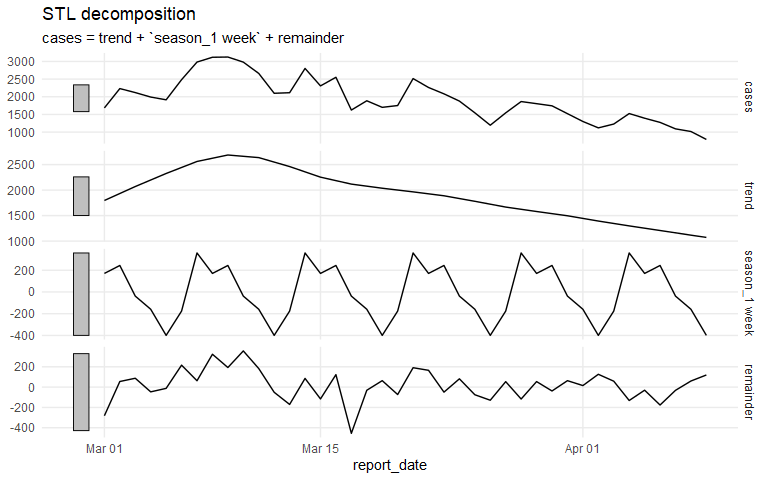
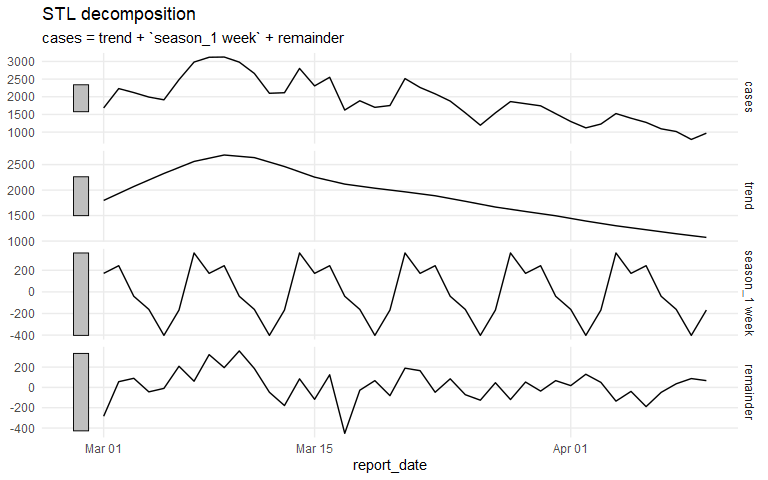
Try log-transformed version

diff --git a/covid-time-series.md b/covid-time-series.md
@@ -16,14 +16,11 @@ cases_df <- read_csv(case_data_url) %>%
   clean_names()
 ```
 
-    ## Warning: One or more parsing issues, see `problems()` for details
-
-    ## Rows: 767295 Columns: 7
+    ## Rows: 774928 Columns: 7
 
     ## -- Column specification --------------------------------------------------------
     ## Delimiter: ","
-    ## chr  (5): Case Status, Sex, Age group, DHB, Overseas travel
-    ## lgl  (1): Historical
+    ## chr  (6): Case Status, Sex, Age group, DHB, Overseas travel, Historical
     ## date (1): Report Date
 
     ## 
@@ -155,4 +152,51 @@ While the trend is possibly over-smoothed, the peak coincinded with the strong w
 
 The true case numbers are likely higher than reported, but the shape of the curve is more important for this analysis than the absolute numbers. There was also likely to have been a change in reporting rates when use of RATs became widespread, so comparing case numbers before and after that would be problematic, but this was well before the peak in these DHBs.
 
-For a more rigorous analysis, and before trying any forecasting, we should do a log + 1 transform to allow for multiplicative seasonality.
+## Log-transformed time series
+
+For a more rigorous analysis, and before trying any forecasting, we should do a log + 1 transform to allow for multiplicative seasonality. This is especially important now that cases are falling.
+
+``` r
+y_transform <- log1p
+inverse_transform <- expm1
+
+dhb_cases_transformed_ts <- dhb_cases_ts %>% 
+  mutate(y = y_transform(cases))
+
+dhb_cases_transformed_stl <- dhb_cases_transformed_ts %>% 
+  model(STL(y ~ trend(window = 7 * 2) + season(period = "1 week", window = Inf))) %>% 
+  components()
+
+dhb_cases_transformed_stl %>% 
+  autoplot() +
+  theme_minimal() +
+  theme(panel.grid.minor = element_blank())
+```
+
+![](covid-time-series_files/figure-markdown_github/log-transform-1.png)
+
+``` r
+dhb_cases_after_transform_stl_df <- dhb_cases_transformed_stl %>% 
+  select(report_date, y, trend, season_adjust) %>% 
+  as_tibble() %>% 
+  mutate(across(where(is.numeric), inverse_transform)) %>% 
+  rename(cases = y)
+
+dhb_cases_after_transform_stl_df %>% 
+  ggplot() +
+  # geom_vline(xintercept = wfh_start_date, colour = "firebrick") +
+  geom_hline(yintercept = 0, colour = "grey50") +
+  geom_line(aes(x = report_date, y = season_adjust), colour = "firebrick", size = 1) +
+  geom_line(aes(x = report_date, y = trend), colour = "steelblue", size = 1) +
+  geom_point(aes(x = report_date, y = cases)) +
+  scale_x_date(date_breaks = "1 week", date_labels = "%d %b") +
+  scale_y_continuous(limits = c(0, NA)) +
+  labs(x = "", y= "", title = "Total daily COVID-19 Cases",
+       subtitle = str_glue("For {dhb_names_label} DHBs\n", 
+                           "Red line: cases adjusted for weekly pattern. Blue line: trend component."),
+       caption = str_glue("Source: {case_data_url}")) +
+  theme_minimal() +
+  theme(panel.grid.minor = element_blank())
+```
+
+![](covid-time-series_files/figure-markdown_github/log-transform-2.png)
